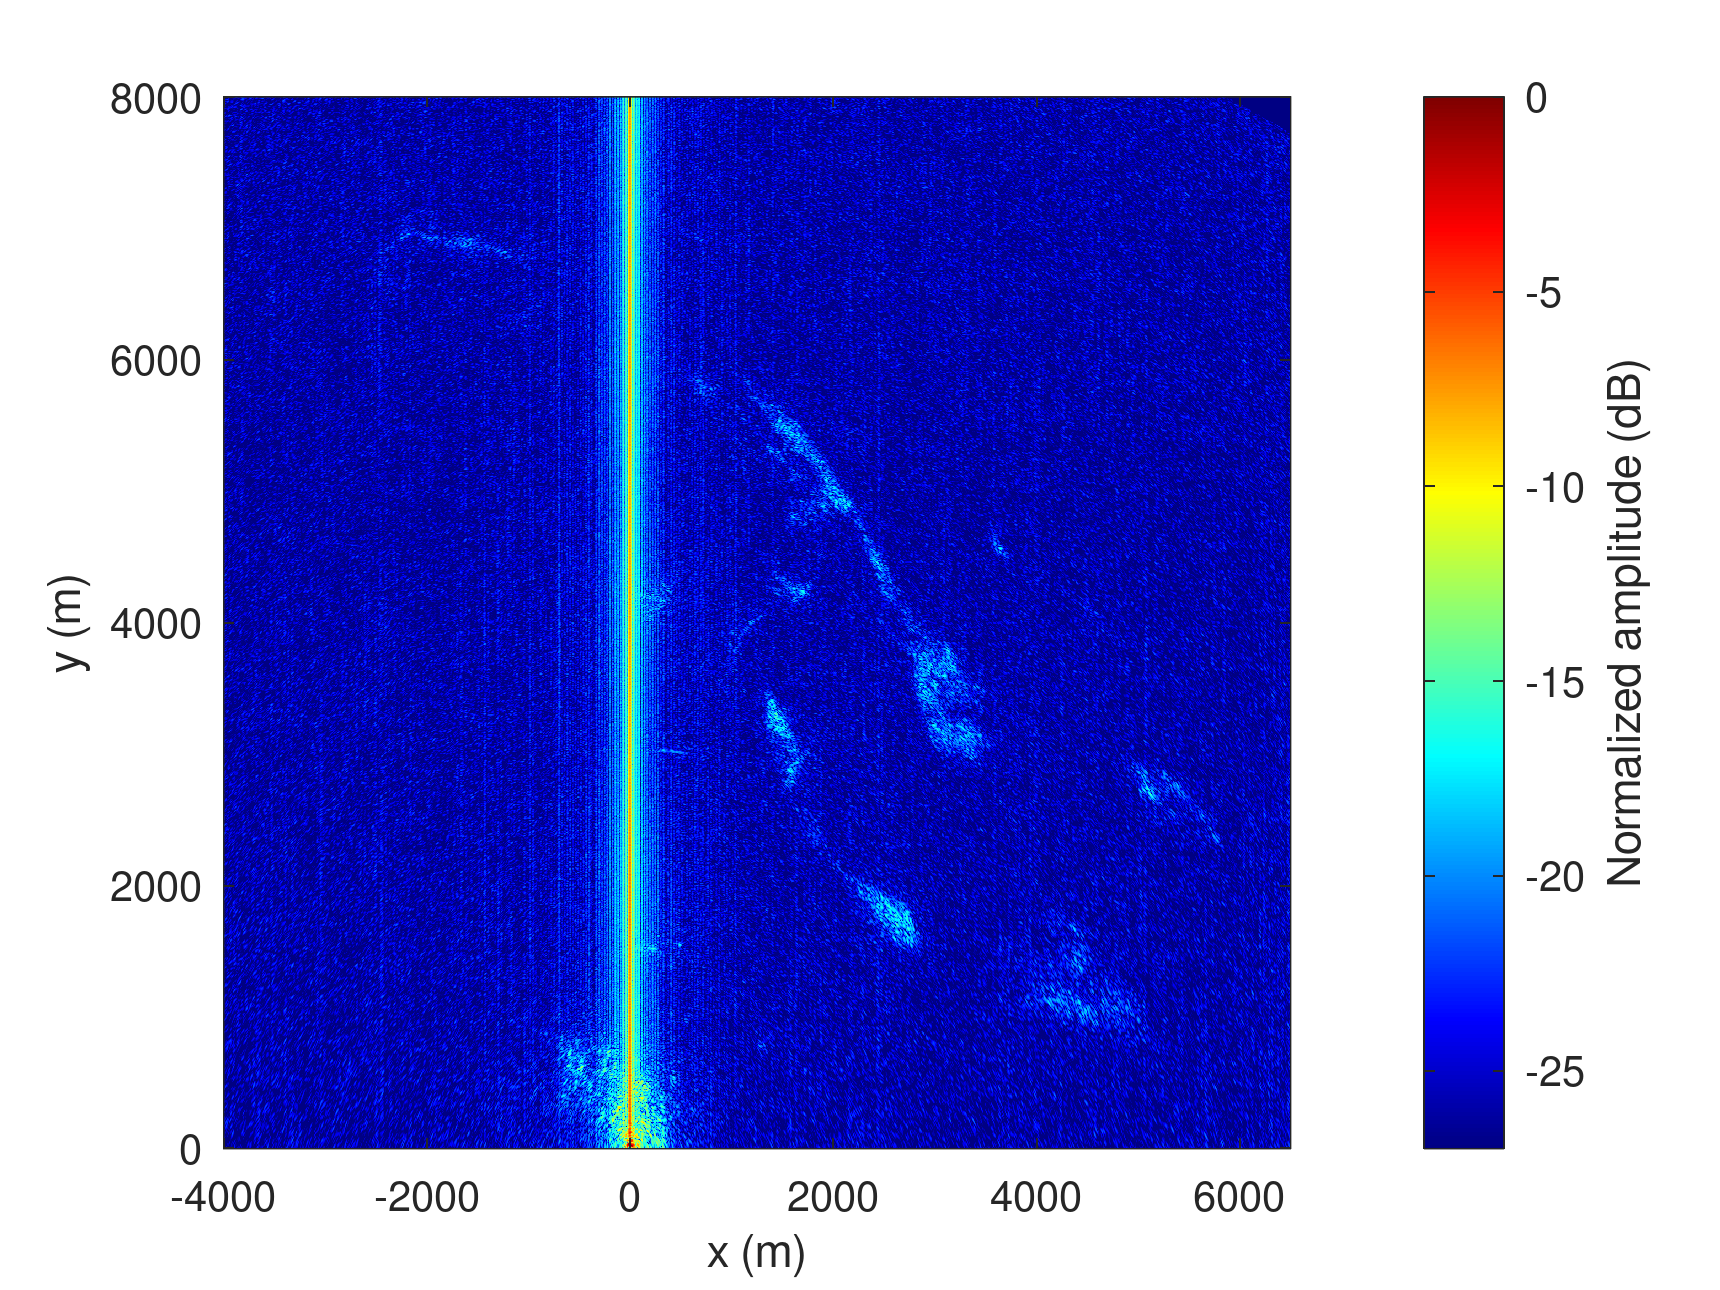
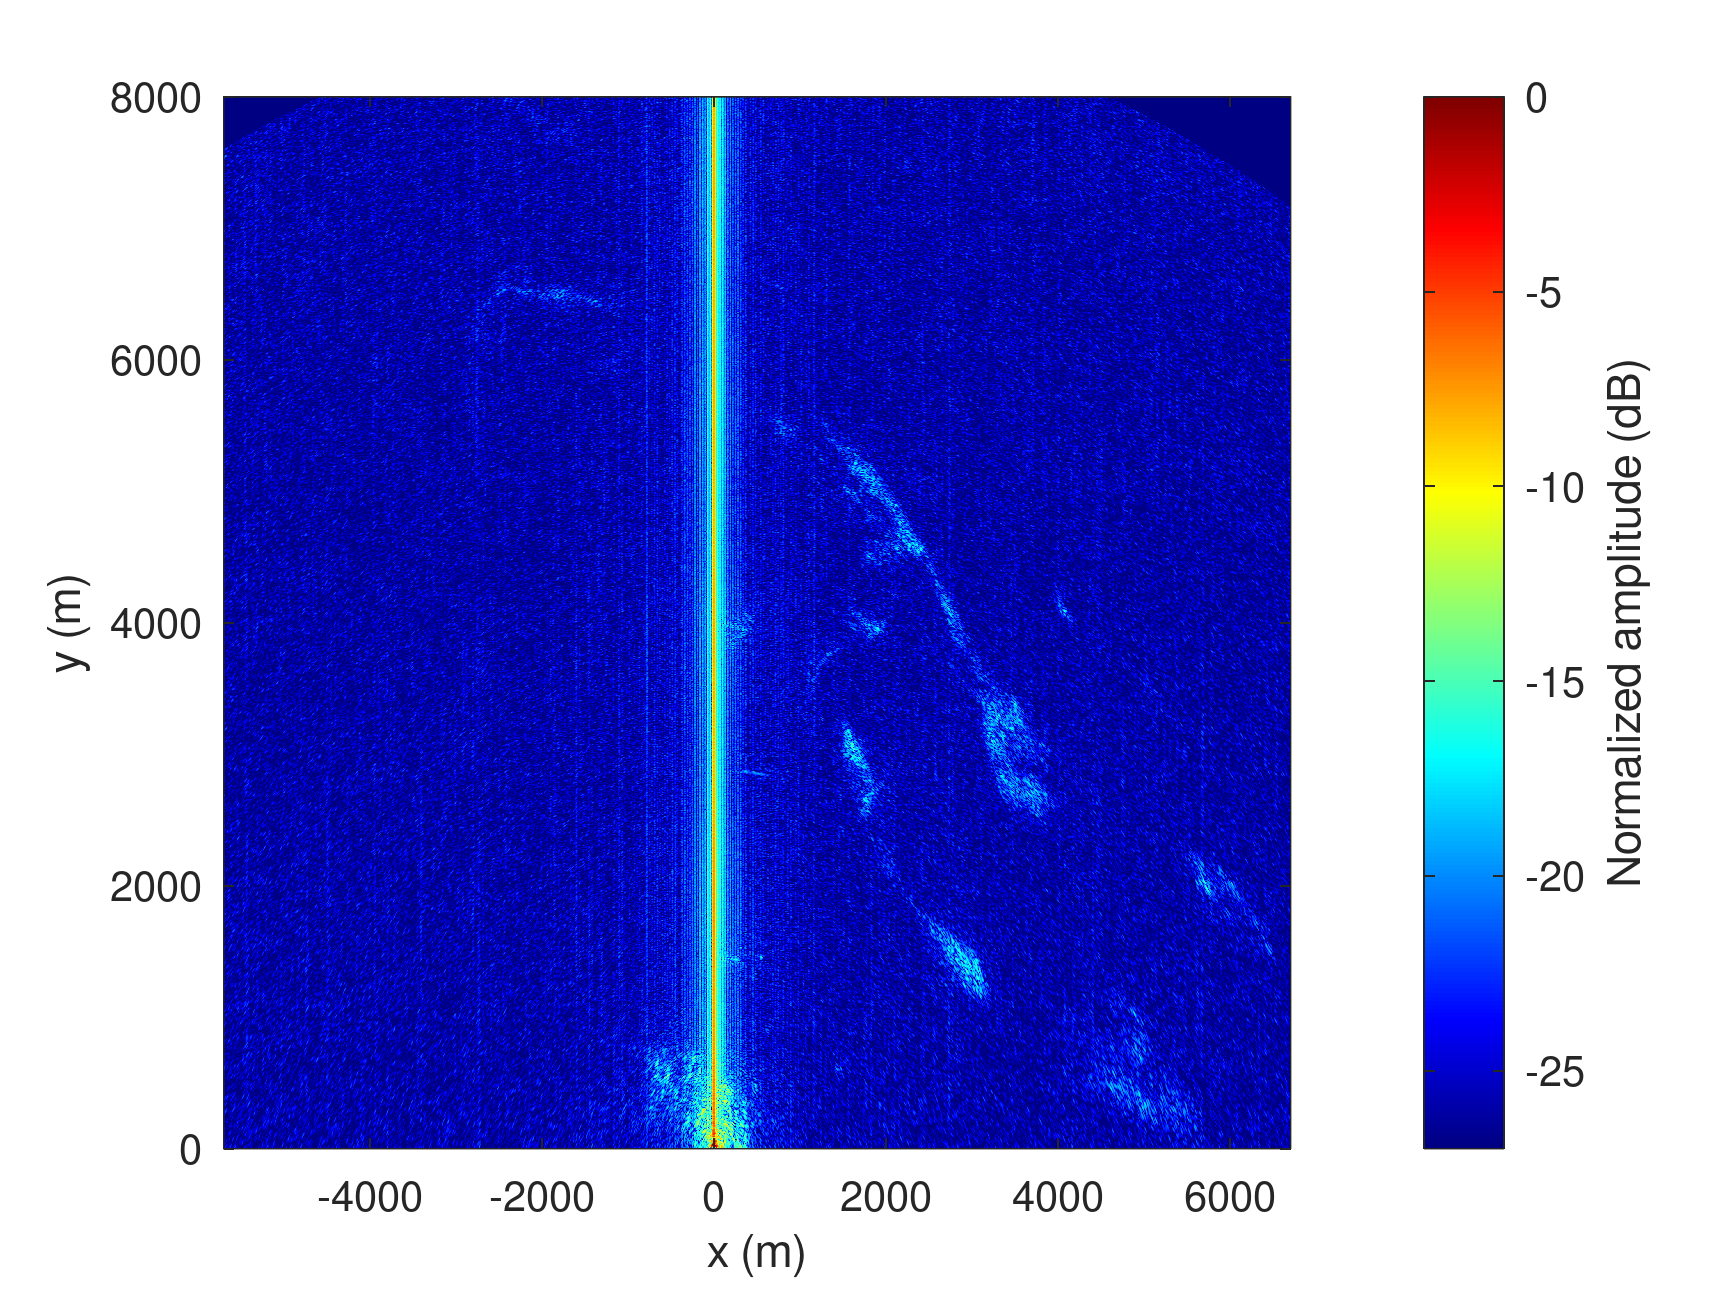
correct projection angle MAX2771

diff --git a/260817/max2771/nisarbmax2771_process5.m b/260817/max2771/nisarbmax2771_process5.m
@@ -10,7 +10,7 @@ fc = 1229e6; % c/lembda;
 lembda = c/fc; % 24e-2;
 
 H = 750.2e3;       % TLE Celestrak (semi-major axis)
-theta0 = 51*pi/180;
+theta0 = 44*pi/180;
 beta_sat = -H/sin(theta0);
 
 fs = 24e6;
@@ -74,14 +74,14 @@ clear x
  for p = 1:P
      disp(p);
      Sref(:,p) = ref1(pindx(p)-AS:pindx(p)-AS+Nr-1);
-Sref(:,p)=Sref(:,p)-mean(Sref(:,p));
+% Sref(:,p)=Sref(:,p)-mean(Sref(:,p));
      Sls = zeros(Nr,L);
      for l = -(L-1)/2:(L-1)/2
          Sls(:,l+(L-1)/2+1) = ref1(pindx(p)-AS+l:pindx(p)-AS+Nr-1+l);
      end
      temp = sur1(pindx(p)-AS:pindx(p)-AS+Nr-1);
      Ssur(:,p) = temp-Sls*pinv(Sls)*temp;
-Ssur(:,p)=Ssur(:,p)-mean(Ssur(:,p));
+% Ssur(:,p)=Ssur(:,p)-mean(Ssur(:,p));
  end
  N = length(ref1);
  t = (0:N-1)/fs;
@@ -120,8 +120,8 @@ ylabel(colorbar,'Normalized amplitude (dB)');
 %set(gca,'FontName','Times New Roman','FontSize',14);
 
 %% Image on x-o-y plane
-xm = linspace(0,8e3,2001);nxm = length(xm);
-ym = linspace(-4000,6500,3001);nym = length(ym);
+xm = linspace(0,8e3,3801);nxm = length(xm);
+ym = linspace(-5700,6700,3801);nym = length(ym);
 
 [X,Y] = meshgrid(xm,ym.');A = Y;
 
